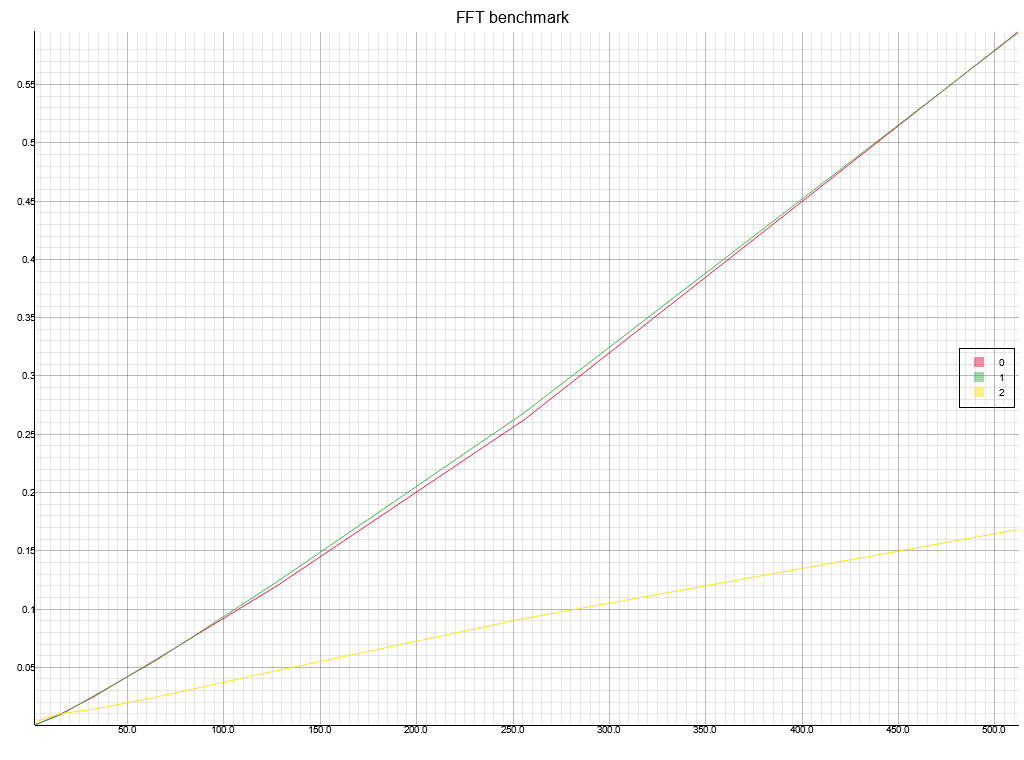
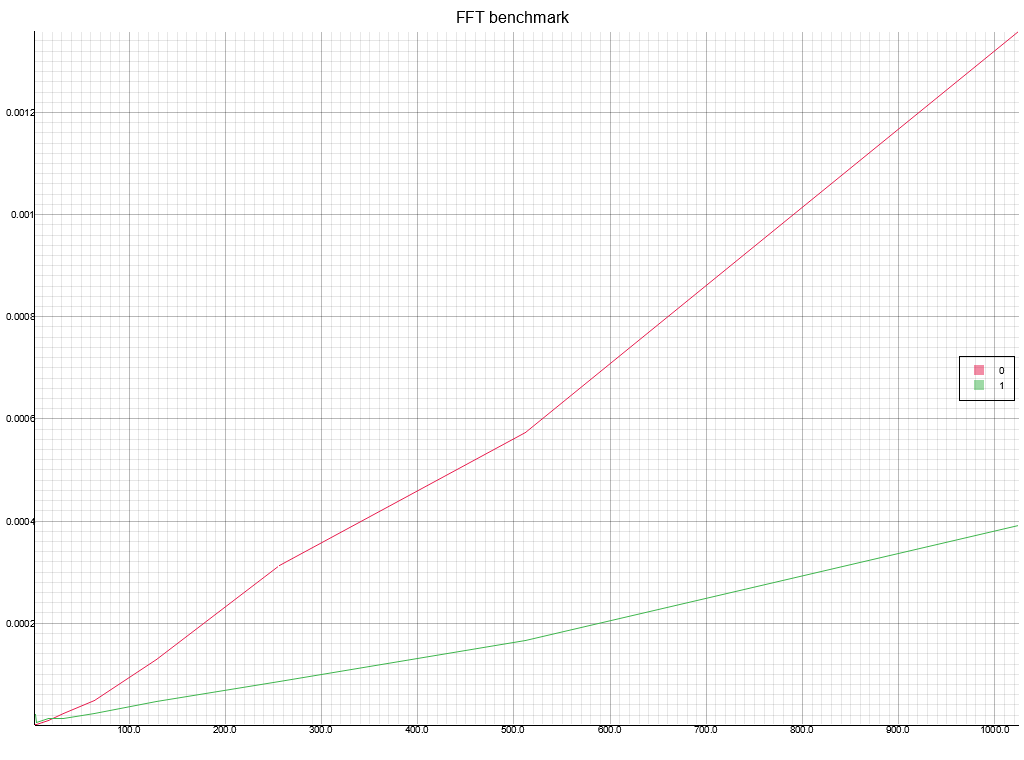
Bench

Changed region(s): [[0.0, 0.0605, 1.0, 0.9684], [0.0, 0.3934, 0.0312, 0.4237], [0.0, 0.2724, 0.0312, 0.3026]]

diff --git a/src/lib.rs b/src/lib.rs
@@ -184,7 +184,7 @@ mod test
         let plot_title: &str = &format!("{fn_name} benchmark");
         let plot_path: &str = &format!("{PLOT_TARGET}/{fn_name}_benchmark.png");
 
-        const N: usize = 8;
+        const N: usize = 9;
         const I: [usize; N] = [
             2,
             4,
@@ -193,7 +193,8 @@ mod test
             64,
             128,
             256,
-            512
+            512,
+            1024
         ];
 
         fn f1<const N: usize>(array: &mut [Complex<f32>; N])
@@ -222,15 +223,17 @@ mod test
 
         fn t<const N: usize>(f: impl Fn(&mut [Complex<f32>; N])) -> f32
         {
+            const M: usize = 4096;
+
             let mut x = [Complex::from(1.0); N];
             let t0 = SystemTime::now();
-            for _ in 0..1024
+            for _ in 0..M
             {
                 f(&mut x);
             }
             let dt = SystemTime::now().duration_since(t0).unwrap();
             println!("Done N = {}", N);
-            dt.as_secs_f32()
+            dt.as_secs_f32()/M as f32
         }
 
         let t = [
@@ -243,8 +246,9 @@ mod test
                 t::<{I[5]}>(f1),
                 t::<{I[6]}>(f1),
                 t::<{I[7]}>(f1),
+                t::<{I[8]}>(f1),
             ],
-            [
+            /*[
                 t::<{I[0]}>(f2),
                 t::<{I[1]}>(f2),
                 t::<{I[2]}>(f2),
@@ -253,7 +257,8 @@ mod test
                 t::<{I[5]}>(f2),
                 t::<{I[6]}>(f2),
                 t::<{I[7]}>(f2),
-            ],
+                t::<{I[8]}>(f2),
+            ],*/
             [
                 t::<{I[0]}>(f3),
                 t::<{I[1]}>(f3),
@@ -263,6 +268,7 @@ mod test
                 t::<{I[5]}>(f3),
                 t::<{I[6]}>(f3),
                 t::<{I[7]}>(f3),
+                t::<{I[8]}>(f3),
             ]
         ];
         
